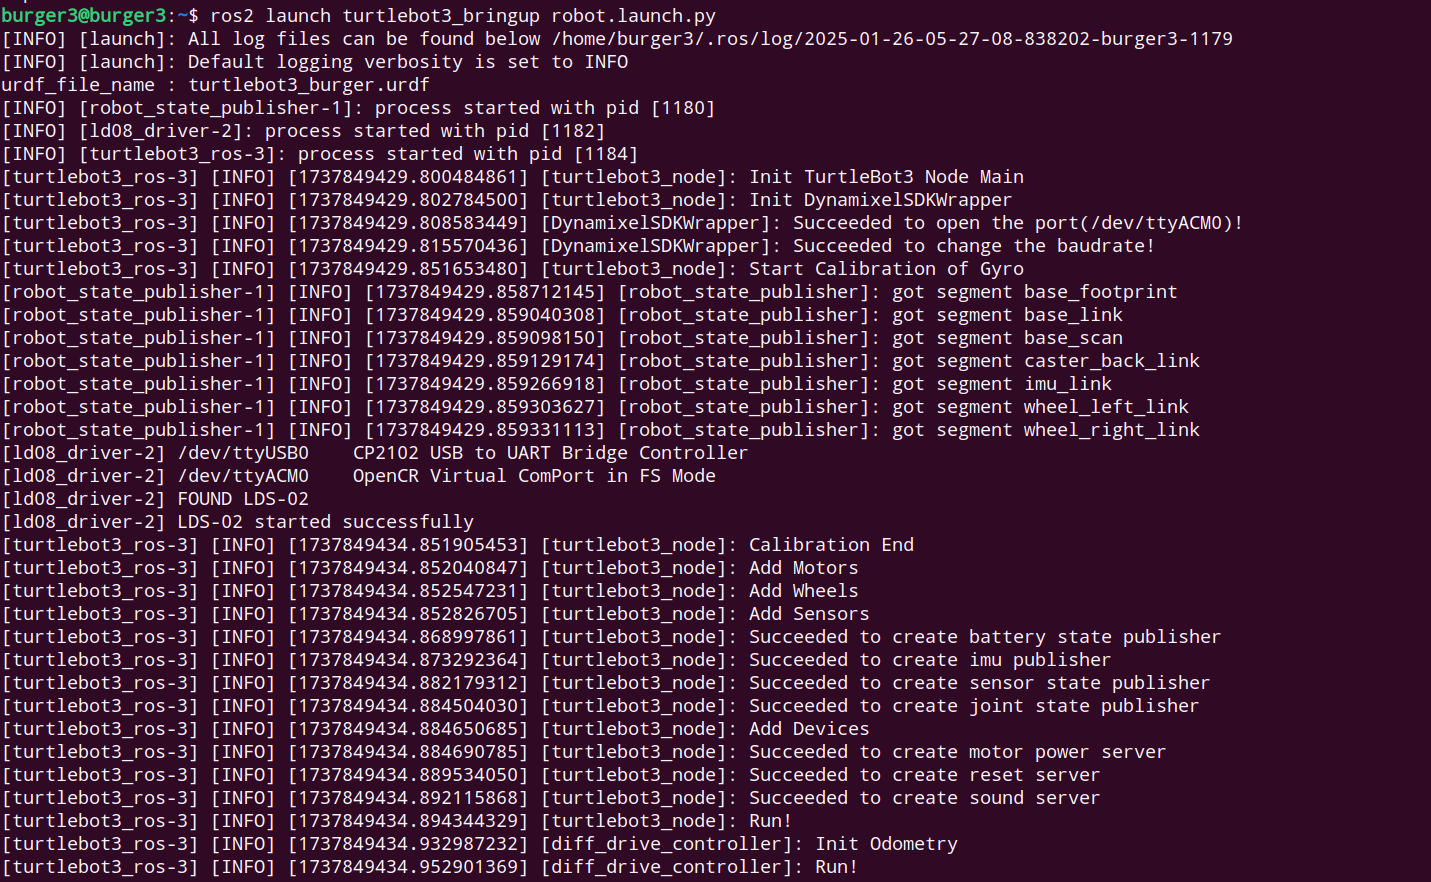
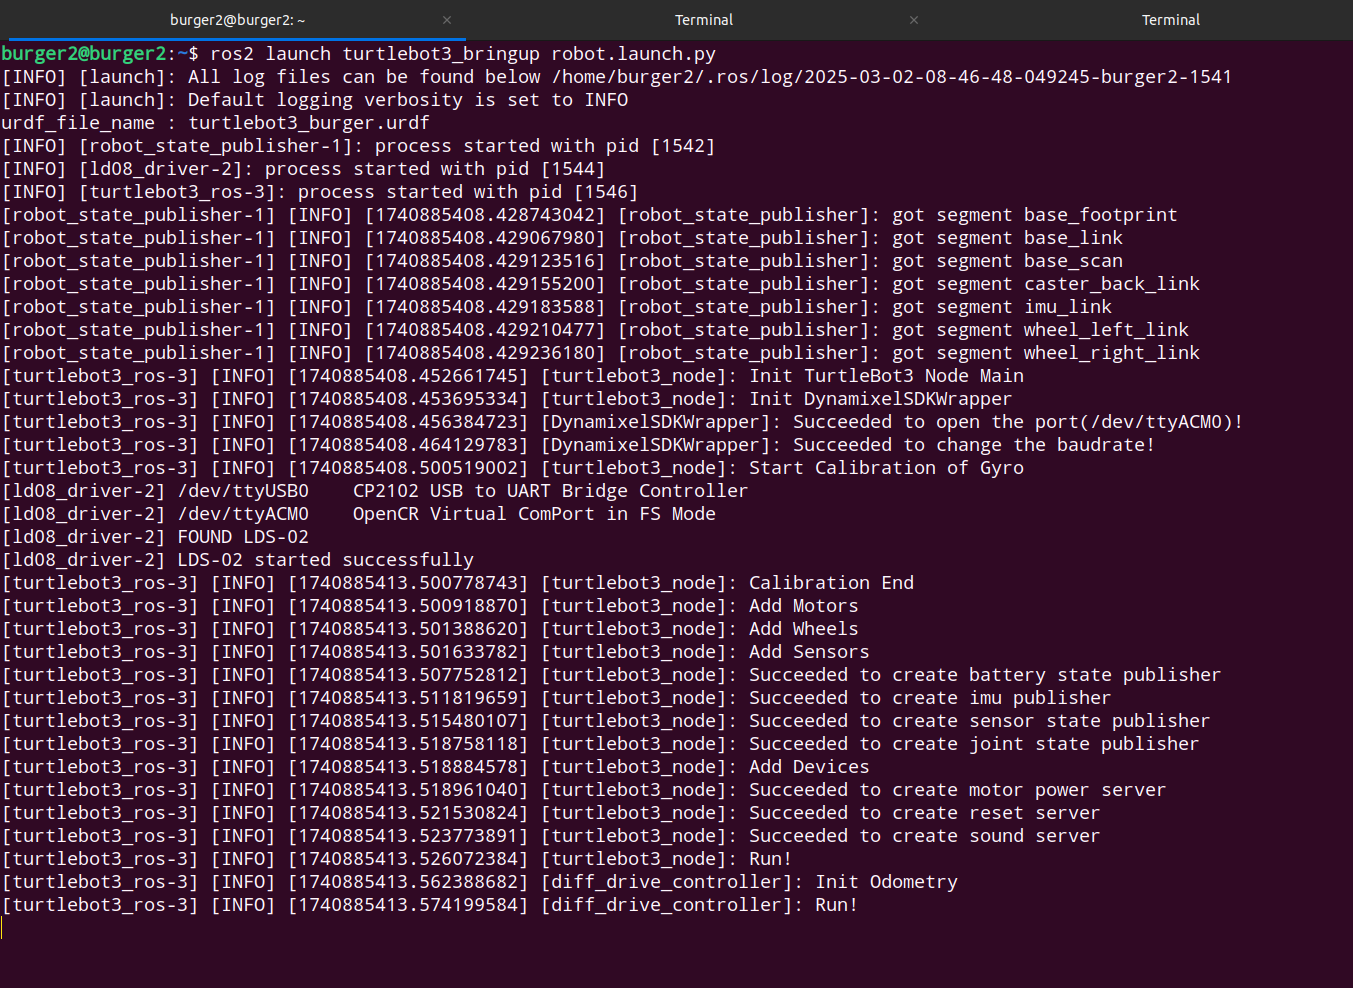
updated readme instructions & media contents

diff --git a/README.md b/README.md
@@ -60,7 +60,7 @@ This doc provides step by step process to setup this package & check the results
   echo "source ~/btp_ws/install/setup.bash" >> ~/.bashrc
   ```    
 
-    Make sure all the above clones packages are built without any errors.       
+    Make sure all the above cloned packages are built without any errors.       
     
     In some cases you might face some warnings after building. Just rebuild the workspace again and they'll be gone.
 
@@ -97,14 +97,15 @@ This doc provides step by step process to setup this package & check the results
   echo "export TURTLEBOT3_NAMESPACE=default_ns" >> ~/.bashrc
   ```     
   ***Note:***   
-1. Here i'm using a default namespace *default_ns*.
-2. Make sure to change this namespace according to your robot.                                                              
+1. Here i'm using a default namespace ***default_ns***.
+2. Make sure to change this namespace according to your robot's name.                                                              
 
 3. This namespace is used to connect to a specific robot (within the platoon) to access its topics.                         
 
-4. This namespace values are supposed to form a specific pattern which is TURTLEBOT3_MODEL_INSTANCE.                        
+4. This namespace values are supposed to form a specific pattern which is `TURTLEBOT3_MODELInstance`.                        
 
-5. For instance, the first burger will have namespace as burger_1 & third waffle_pi will have waffle_pi_3 as its namespace. 
+5. For instance, the first burger will have namespace as burger1 & third waffle_pi will have waffle_pi3 as its namespace. 
+
 
 ### 3. Configure ROS2 environment in your SBC (Robots' RPI) :    
 
@@ -115,7 +116,7 @@ Considering you have already configured your Hardware setup as mentioned [here](
   ```bash
   ssh user_name@ip_address_rpi
   ```    
-  Change *user_name* and *ip_address_ip* to the username & ip_address of your SBC's RPI.
+  Change *user_name* and *ip_address_rpi* to the username & ip_address of your SBC's RPI.
 
 - Export the  ROS_DOMAIN_ID in RPI same as we did for remote PC :  
 
@@ -125,26 +126,19 @@ Considering you have already configured your Hardware setup as mentioned [here](
 - Export namespace for your robot in RPI :    
 
   ```bash
-  echo "export TURTLEBOT3_NAMESPACE=default_ns" >> ~/.bashrc
+  echo "export TURTLEBOT3_NAMESPACE=burger1" >> ~/.bashrc
   ```    
-  By defualt, the `default_ns` will be used.    
   
-  Make sure to change it according to your Robot's Model & Instance.    
+  Make sure to change this namespace according to your Robot's Model & Instance.    
   
   Pattern for writing namespaces have been specified above in this doc.
 
-- Clone this package in RPI :    
+- Clone this package in turtlebot3_ws within SBC's Rpi :    
 
   ```bash
   git clone https://github.com/ab31mohit/platoon.git
   ```
 
-- Build the `turtlebot3_ws` in RPI : 
-  
-  ```bash
-  cd ~/turtlebot3_ws/
-  colcon build
-  ```
 - Update the params in this package according to your robot namespace : 
 
   ```bash
@@ -157,14 +151,21 @@ Considering you have already configured your Hardware setup as mentioned [here](
   
   Do note that, runnniing this file is a one time process for setting up SBC(or RPI) of your robot.    
   
-  Although you don't need to run this on your remote pc, as the bringup file will be running from SBC and it will automatically set the namespaces according to what has been set in params.    
+  Also you don't need to run this on your remote pc, as the bringup file will be running from SBC and it will automatically set the namespaces according to what has been set in params.   
+
+- Build the `turtlebot3_ws` in RPI : 
+  
+  ```bash
+  cd ~/turtlebot3_ws/
+  colcon build --parallel-workers 1
+  ``` 
 
 
 ## Using the package 
 
 In this step you will bringup all the robots by connecting them to same network and also connect your remote PC to the same network.   
 
-You will need to know the ip addresses of all those robots so that you can SSH into them (for running their bringup nodes) from your Remote PC.     
+You will need to know the ip addresses of all those robots so that you can SSH into them (for running their bringup files) from your Remote PC.     
 
 ### 1. Run bringup launch file for all the robots from your remote PC :    
 
@@ -178,16 +179,17 @@ You will need to know the ip addresses of all those robots so that you can SSH i
 - Run bringup file for the robot via above SSH connection :  
 
   ```
-  ros2 launch robot_bringup robot_bringup.launch.py
+  ros2 launch robot_bringup bringup.launch.py
   ```   
+
   The log of this file should look like something like this  
 
     <div align="center">
-    <img src="robot_bringup/media/ns_burger_bringup/ns_bringup_log.png" alt="Bringup log for burger2" />
+      <img src="robot_bringup/media/ns_burger_bringup/ns_bringup_log.png" alt="Bringup log for burger2" />
     </div>   
 
   Here, I'm running ***burger*** (TURTLEBOT3_MODEL) with the namespace ***burger2*** (TURTLEBOT3_NAMESPACE).   
-  
+
 - Open a new tab in the remote PC & run : 
  
   ```
@@ -203,7 +205,7 @@ You will need to know the ip addresses of all those robots so that you can SSH i
     <img src="robot_bringup/media/ns_burger_bringup/ns_bringup_topics.png" alt="ROS2 topics for burger2" />
     </div>   
 
-  Here all the topics of this robot are namespaced with ***burger2*** as i used this as the namespace for this robot except `/tf` and `/tf_static`.   
+  Here all the topics of this robot are namespaced with ***burger2*** as i used this as the namespace for this robot except ***/tf*** and ***/tf_static***.   
 
 - To understand the transforms that are being used in the background, run :  
   
@@ -218,14 +220,15 @@ You will need to know the ip addresses of all those robots so that you can SSH i
     <img src="robot_bringup/media/ns_burger_bringup/ns_bringup_tf_frames.png" alt="Transform data for burger2" />
     </div> 
 
-  Now you can understand that we've only namespaced the frames ***odom*** and ***base_footprint*** of the robot in the global trannsform topics /tf & /tf_static without namespacing these global topics.     
+  Now you can understand that we've only namespaced all the frames, nodes, topics that are related to a specific robot.    
+  This will be used to differentiate robots and their data from other robots within the same ROS network.   
+  The only frame that is common is the ***world*** which is basically the frame wrt. whiich the odometry of all the robots is getting initialized.      
+  The ***/tf*** & ***/tf_static*** topics contains the global transform data of all the namepspaced robots from the ***world*** frame.         
   This is becase we need a global transform data which can keep track of transform of all the robots.   
-  My approach was to publish the transform data of all the robots onto global transform topics with namespaces and then there will one parent `world` frame whose child will be all the sub odoms of the robots.      
-  This `world` will be on that `odom` frame of one of the robots (that we'll choose as our Leader robot in the platoon).    
-  Just below you'll see that that i've namespaced all the nodes as well that are associated to the important topics of the robot (to differentiate them with that of others).     
+  In the ***updated_turtlebot3_node*** package, the code to initialize odometry of a robot to a custom value has been implemented and the frame_id & custom transform has been utilized from [***params***](/robot_bringup/param/) folder.
 
 - Understand flow of information using rqt_graph : 
-To understand what i just said above and visualize how the information is getting traversed between the nodes & topics within the ROS environment, we can use rqt_graph.    
+To understand what i said in my earlier discussion and visualize how the information is getting traversed between the nodes & topics within the ROS environment, we can use rqt_graph.    
 
 - Run this command to open rqt_graph : 
 
@@ -236,8 +239,9 @@ To understand what i just said above and visualize how the information is gettin
 
     <div align="center">
     <img src="robot_bringup/media/ns_burger_bringup/ns_bringup_rqt.png" alt="Transform data for burger2" />
-    </div>  
-  It is clear that all the nodes and topics are namespaced except the */tf* and */tf_static* topics and i already gave the reason for that.   
+    </div>   
+    
+  It is clear that all the nodes and topics are namespaced except the ***/tf*** and ***/tf_static*** topics and i already gave the reason for that.   
   
 The reason why i included this so that one can really understand what am i trying to do and how to visualize those changes.     
 

diff --git a/TURTLEBOT3_HARDWARE_SETUP.md b/TURTLEBOT3_HARDWARE_SETUP.md
@@ -100,6 +100,12 @@ https://gist.github.com/user-attachments/assets/8d7ea105-5a24-42cd-ab8e-456c5f01
     ```bash
     ros2 launch turtlebot3_bringup robot.launch.py
     ```   
+    The log of this file should look like something like this  
+    <div align="left">
+    <img src="robot_bringup/media/burger_bringup/bringup_log.png" alt="Bringup log for burger" />
+    </div>   
+
+  Here, I'm running ***burger*** (TURTLEBOT3_MODEL)
 
 4. Open another tab of the terminal and run :    
 
@@ -107,6 +113,9 @@ https://gist.github.com/user-attachments/assets/8d7ea105-5a24-42cd-ab8e-456c5f01
     ros2 topic list
     ```    
     It should output topics similar to this   
+    <div align="left">
+    <img src="robot_bringup/media/burger_bringup/bringup_topics.png" alt="ROS2 topics during bringup for burger" />
+    </div>
 
 5. Run rviz to visualize the robot : 
 
